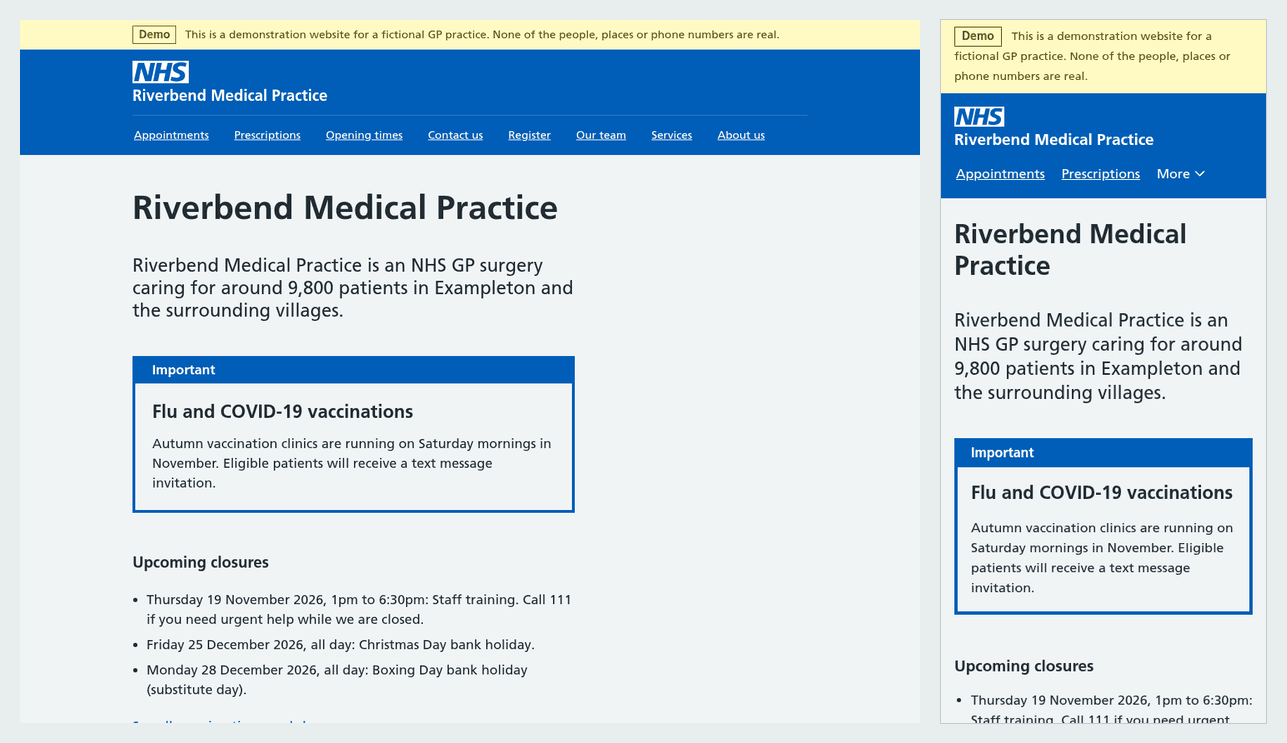
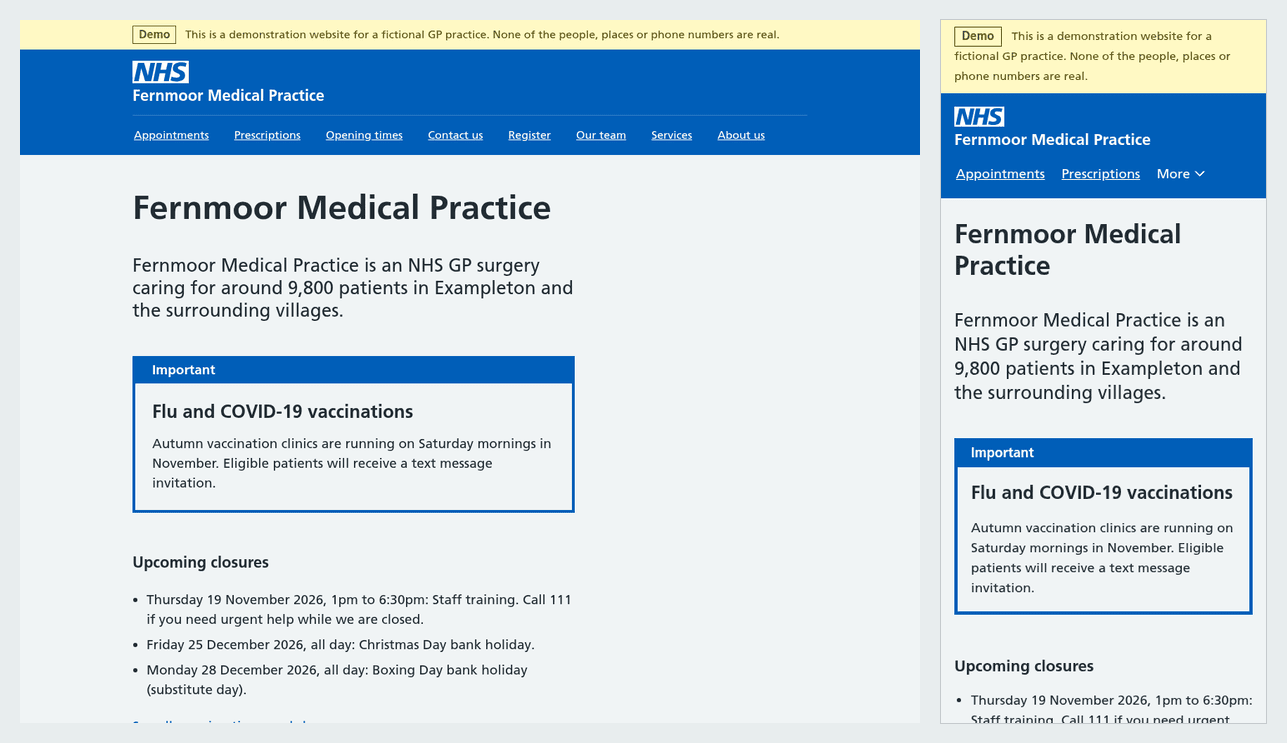
docs: rename the demo practice to Fernmoor Medical Practice
Riverbend read oddly. Fernmoor is fictional (no UK place or practice of
that name found). Renames the practice, its PCN, addresses, example
URLs and usernames, test assertions and the README screenshot.

diff --git a/tests/build.test.js b/tests/build.test.js
@@ -125,7 +125,7 @@ test("the demo site is labelled and hidden from search engines", () => {
 
 test("the online consultation link and phone number are on the appointments page", () => {
   const html = read(demo, "appointments/index.html");
-  assert.match(html, /href="https:\/\/example\.com\/riverbend-online-consultation"/);
+  assert.match(html, /href="https:\/\/example\.com\/fernmoor-online-consultation"/);
   assert.match(html, /href="tel:\+441632960000"/);
 });
 
@@ -159,7 +159,7 @@ test("extra Markdown pages are built and linked from the services page", () => {
 
 test("the accessibility statement names the practice and contact details", () => {
   const html = read(demo, "accessibility-statement/index.html");
-  assert.match(html, /applies to the Riverbend Medical Practice website/);
+  assert.match(html, /applies to the Fernmoor Medical Practice website/);
   assert.match(html, /01632\u00a0960000/);
 });
 

diff --git a/tests/practice.test.js b/tests/practice.test.js
@@ -12,7 +12,7 @@ import {
 } from "../lib/practice.js";
 
 const TODAY = new Date("2026-10-28T12:00:00Z");
-// A frozen copy of the Riverbend demo, so these tests keep passing after a
+// A frozen copy of the Fernmoor demo, so these tests keep passing after a
 // practice replaces the details in practice/ with its own.
 const DEMO = "tests/fixtures/demo-practice";
 const demoData = () => structuredClone(readPracticeFile(DEMO));
@@ -55,7 +55,7 @@ test("a phone number that is not a UK number is an error", () => {
 
 test("an ODS code in the wrong format is an error", () => {
   const data = demoData();
-  data.practice.ods_code = "riverbend";
+  data.practice.ods_code = "fernmoor";
   assert.ok(fields(check(data).errors).includes("practice.ods_code"));
 });
 

diff --git a/README.md b/README.md
@@ -6,9 +6,9 @@ A free, open source website template that lets a GP practice put a safe, NHS-sty
 [![Code licence: MIT](https://img.shields.io/badge/code-MIT-blue.svg)](LICENSE)
 [![Content licence: CC BY-SA 4.0](https://img.shields.io/badge/content-CC%20BY--SA%204.0-blue.svg)](LICENSES/CC-BY-SA-4.0.txt)
 
-![The demo website for the fictional Riverbend Medical Practice, shown on a desktop screen and a phone. It uses the familiar NHS blue header and shows the practice name, a notice about vaccination clinics and upcoming closures.](docs/img/demo-desktop-and-phone.png)
+![The demo website for the fictional Fernmoor Medical Practice, shown on a desktop screen and a phone. It uses the familiar NHS blue header and shows the practice name, a notice about vaccination clinics and upcoming closures.](docs/img/demo-desktop-and-phone.png)
 
-**[See the demo site](https://pacharanero.github.io/open-gp-practice-website/)** for Riverbend Medical Practice, which is entirely fictional.
+**[See the demo site](https://pacharanero.github.io/open-gp-practice-website/)** for Fernmoor Medical Practice, which is entirely fictional.
 
 **Status: early release, October 2026.** The template works and is tested, but it has not yet been reviewed by a Clinical Safety Officer or tried end to end by a practice. See [SAFETY.md](SAFETY.md) and the [roadmap](ROADMAP.md).
 
@@ -67,7 +67,7 @@ These steps are written for practice staff. You do not need any technical knowle
 GitHub is a free service where your website's files will be kept and published.
 
 1. Go to <https://github.com/signup>.
-2. Sign up with your **shared practice email address**. Choose a username that identifies the practice, for example `riverbend-surgery`. This will appear in your free web address.
+2. Sign up with your **shared practice email address**. Choose a username that identifies the practice, for example `fernmoor-surgery`. This will appear in your free web address.
 3. Confirm your email address when GitHub sends you a code.
 4. GitHub will ask you to turn on two-factor authentication (a second check when you sign in). Do this using an authenticator app, and keep the recovery codes with the practice's other important passwords.
 
@@ -75,7 +75,7 @@ GitHub is a free service where your website's files will be kept and published.
 
 1. While signed in, go to <https://github.com/pacharanero/open-gp-practice-website>.
 2. Click the **Fork** button near the top right. (A "fork" is GitHub's word for your own copy.)
-3. Under **Repository name**, type a name for your website, for example `riverbend-surgery-website`.
+3. Under **Repository name**, type a name for your website, for example `fernmoor-surgery-website`.
 4. Click **Create fork**. After a few seconds you will see your own copy, with your username at the top left.
 
 ### Step 3: Switch on publishing

diff --git a/skill/gp-practice-website/references/github-fork.md b/skill/gp-practice-website/references/github-fork.md
@@ -10,12 +10,12 @@ Walk the person through them one at a time and ask what they see after each. Che
 
 - the GitHub account uses a shared practice email address, not a personal one (safety rule 7)
 - they turned on two-factor authentication and saved the recovery codes with the practice's other important passwords
-- they renamed their copy to something like `riverbend-surgery-website`
+- they renamed their copy to something like `fernmoor-surgery-website`
 - they switched on Actions in their copy, and set Settings > Pages > Source to "GitHub Actions"
 
 ## Publishing
 
-1. Commit your changes with a short plain-English message, for example "Add Riverbend opening times and contact details". Only `practice/` files should have changed; if anything else has, undo it.
+1. Commit your changes with a short plain-English message, for example "Add Fernmoor opening times and contact details". Only `practice/` files should have changed; if anything else has, undo it.
 2. Push your branch to the practice's copy.
 3. Open a pull request (a proposed change) **into the practice's own copy**. The target must be `<their account>/<their repository>`, branch `main`. Never open a pull request, issue or comment on `pacharanero/open-gp-practice-website` that contains practice details. If your tools default to the template, change the target, or ask the person to check that the page they see says their own account name on both sides.
 4. Ask the person to open the pull request, read your summary, and click **Merge pull request**, then **Confirm merge**. Merging is the moment the site is published, so only ask after sign-off (Step 5 of the skill).
@@ -25,7 +25,7 @@ Walk the person through them one at a time and ask what they see after each. Che
 
 ## Their own web address
 
-Their site works at the github.io address straight away. For their own address (for example `www.riverbendsurgery.nhs.uk`):
+Their site works at the github.io address straight away. For their own address (for example `www.fernmoorsurgery.nhs.uk`):
 
 1. Set `site.custom_domain` and `site.url` in `practice/practice.yaml`, and publish.
 2. Ask them to go to Settings > Pages > Custom domain in their copy, type the address and click Save. GitHub then shows whether the address is pointing at it yet.

diff --git a/skill/gp-practice-website/SKILL.md b/skill/gp-practice-website/SKILL.md
@@ -74,7 +74,7 @@ See `references/fields.md` for what each item means and where people can find it
 6. **Privacy notice:** put their real privacy notice in `practice/pages/privacy-notice.md`. Ask them to paste or attach it; most practices get it from their Data Protection Officer or ICB. Do not write one from scratch. If they cannot find it today, write a short holding page that says the full privacy notice is available from the practice on request, with the phone number, and tell them to ask their Data Protection Officer for the full version.
 7. Extra pages (for example travel vaccinations) can be added as Markdown files in `practice/pages/`. Only use wording the person gives you or links to nhs.uk.
 
-Only edit files in `practice/`. **Done when** no demo value (Riverbend, Exampleton, 01632, example.com) remains anywhere in `practice/`.
+Only edit files in `practice/`. **Done when** no demo value (Fernmoor, Exampleton, 01632, example.com) remains anywhere in `practice/`.
 
 ## Step 4: Check
 

diff --git a/skill/gp-practice-website/references/publishing.md b/skill/gp-practice-website/references/publishing.md
@@ -19,7 +19,7 @@ Good for: getting online fast, with no technical setup.
 3. In Netlify, they add a new site and choose the option to deploy manually, by dragging and dropping a folder.
 4. They drag the unzipped folder onto the page.
 5. Netlify gives the site a free address ending in `.netlify.app`. Ask them to send it to you, then check the site loads.
-6. In the site settings they can change the site name, so the address reads well (for example `riverbend-medical.netlify.app`).
+6. In the site settings they can change the site name, so the address reads well (for example `fernmoor-medical.netlify.app`).
 7. Put that address in `site.url` and rebuild, so the next upload has the right address.
 
 To update the site later, they open the site in Netlify, go to its deploys, and drag the new folder onto it.

diff --git a/practice/pages/privacy-notice.md b/practice/pages/privacy-notice.md
@@ -1,13 +1,13 @@
 ---
 title: Privacy notice
-description: How Riverbend Medical Practice uses your personal information.
+description: How Fernmoor Medical Practice uses your personal information.
 ---
 
 **This is an example privacy notice for a fictional practice. A real practice must replace it with its own privacy notice, usually provided by its Data Protection Officer or ICB.**
 
 ## Who we are
 
-Riverbend Medical Practice is the data controller for the information we hold about you. This means we decide how your information is used and are responsible for keeping it safe.
+Fernmoor Medical Practice is the data controller for the information we hold about you. This means we decide how your information is used and are responsible for keeping it safe.
 
 ## What information we hold
 

diff --git a/tests/fixtures/demo-practice/pages/privacy-notice.md b/tests/fixtures/demo-practice/pages/privacy-notice.md
@@ -1,13 +1,13 @@
 ---
 title: Privacy notice
-description: How Riverbend Medical Practice uses your personal information.
+description: How Fernmoor Medical Practice uses your personal information.
 ---
 
 **This is an example privacy notice for a fictional practice. A real practice must replace it with its own privacy notice, usually provided by its Data Protection Officer or ICB.**
 
 ## Who we are
 
-Riverbend Medical Practice is the data controller for the information we hold about you. This means we decide how your information is used and are responsible for keeping it safe.
+Fernmoor Medical Practice is the data controller for the information we hold about you. This means we decide how your information is used and are responsible for keeping it safe.
 
 ## What information we hold
 

diff --git a/skill/gp-practice-website/references/domains.md b/skill/gp-practice-website/references/domains.md
@@ -34,7 +34,7 @@ Fill in the parts in square brackets with real details. Do not send it with anyt
 >
 > - Type: [record type, for example CNAME]
 > - Name: [name, for example www]
-> - Value: [value, for example riverbend-medical.netlify.app]
+> - Value: [value, for example fernmoor-medical.netlify.app]
 >
 > The new website is already live at [free address] if you would like to check it first.
 >
